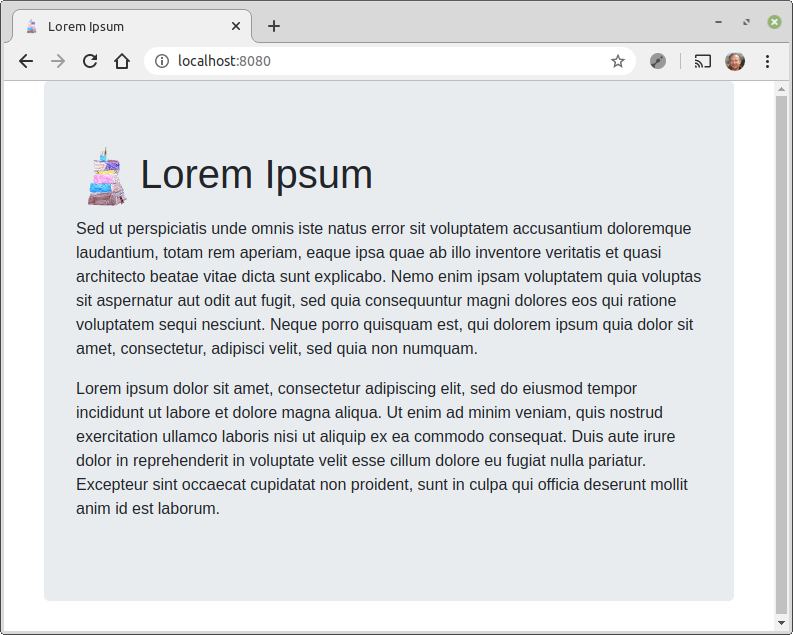
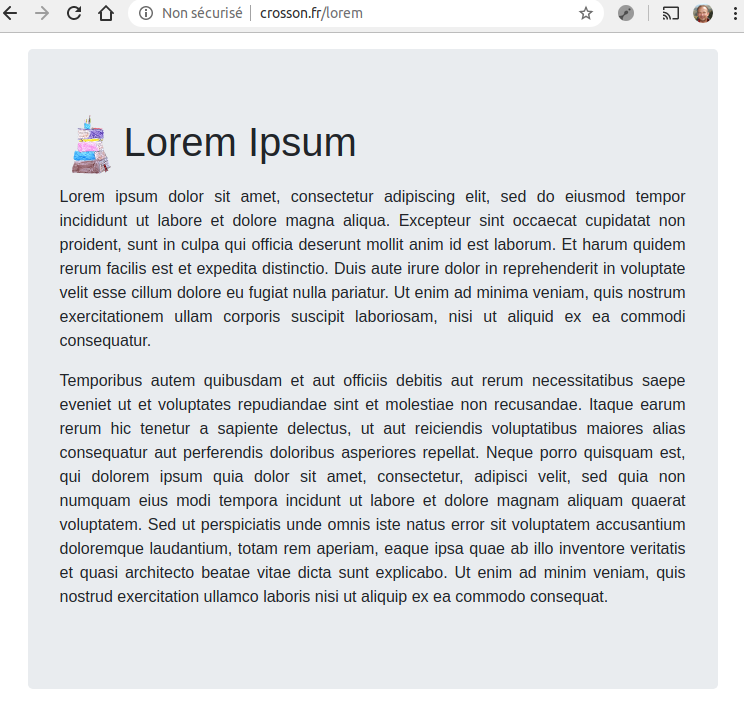
Improve README

Changed region(s): [[0.0618, 0.1496, 0.9274, 0.8677], [0.0, 0.0, 1.0, 1.0], [0.0618, 0.0898, 0.1546, 0.1197]]

diff --git a/README.md b/README.md
@@ -3,8 +3,21 @@
 A [lorem ipsum][wiki-lorem] web application server based on [akka http][akka-http] framework, and
 a dedicated [lorem ipsum librarry][lorem-lib].
 
+You can take a look to the final result
+through this [deployment][deployed] : 
+
 ![](images/lorem-ipsum-screenshot.png)
 
+
+This is both an application and a library whose routes can be embedded in other web applications.
+It has been published on maven central, [![][LoremIpsumServerAkkaMvnImg]][LoremIpsumServerAkkaMvnLnk].
+
+
+[deployed]:   http://crosson.fr/lorem
 [lorem-lib]:  https://github.com/dacr/lorem-ipsum
 [wiki-lorem]: https://en.wikipedia.org/wiki/Lorem_ipsum
 [akka-http]:  https://doc.akka.io/docs/akka-http/current/index.html
+
+[LoremIpsumServerAkka]:       https://github.com/dacr/lorem-ipsum-server-akkahttp
+[LoremIpsumServerAkkaMvnImg]: https://img.shields.io/maven-central/v/fr.janalyse/lorem-ipsum-server-akkahttp_2.13.svg
+[LoremIpsumServerAkkaMvnLnk]: https://search.maven.org/#search%7Cga%7C1%7Cfr.janalyse.lorem-ipsum-server-akkahttp
